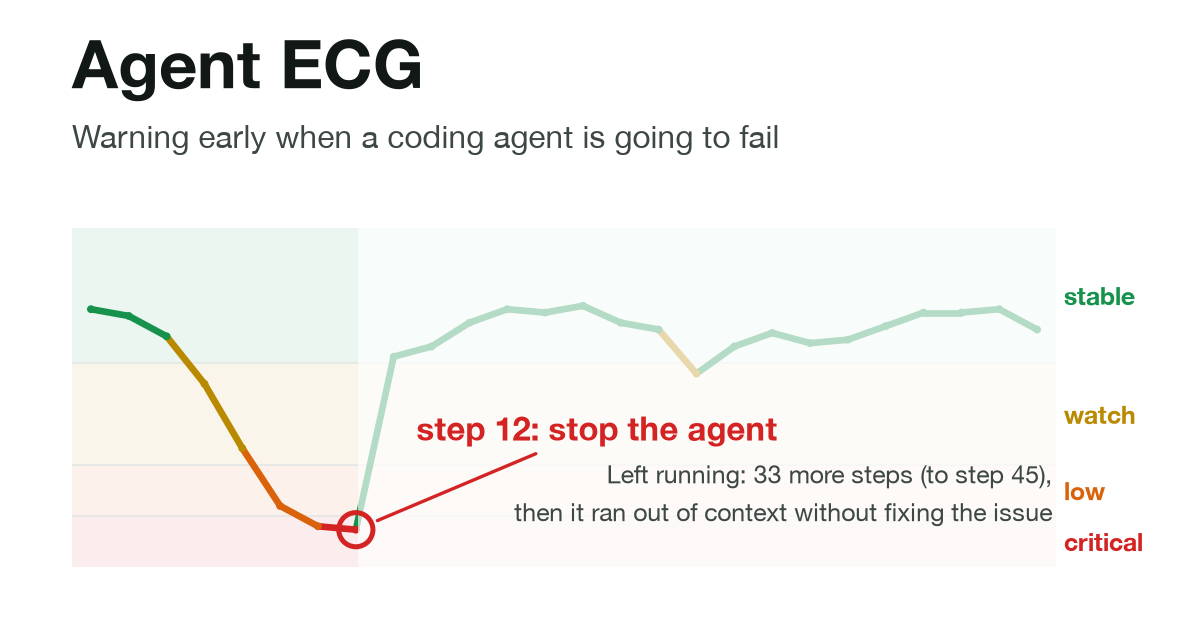
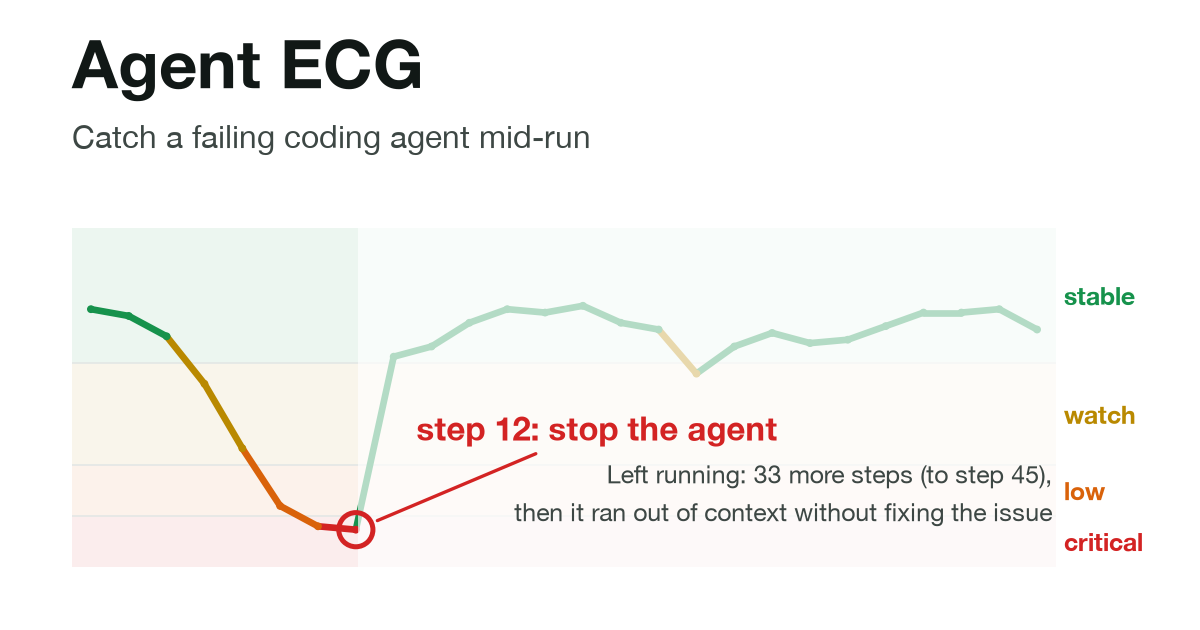
site: sharper headline claims, every one traced to results/
- Headline "Agent ECG: Catch a Failing Coding Agent Mid-Run" with a tagline; meta tags and the
  link-preview card to match.
- Abstract rewritten to sell: 83 % of runs fail, the monitor flags failing runs 3 steps sooner than
  a classical monitor and catches 66 it misses, level with the strongest baseline on two attempts at
  the same issue, plain-English status reports; the overall edge of that baseline (0.03 to 0.04
  AUROC) is still stated.
- Six one-fact cards; findings retitled ("Same issue, dead heat", "It calls it 3 steps sooner");
  limitations reframed as "What it can't do yet"; demo caption and README opening to match.

Changed region(s): [[0.0617, 0.181, 0.6475, 0.2413]]

diff --git a/site/index.html b/site/index.html
@@ -6,9 +6,9 @@
 <title>Agent ECG</title>
 <meta name="claude:viewport-fit-sides" content="cover">
 <link rel="icon" type="image/svg+xml" href="favicon.svg">
-<meta name="description" content="Reading a coding agent's run step by step to warn early when it is going to fail.">
-<meta property="og:title" content="Agent ECG: warning early when a coding agent is going to fail">
-<meta property="og:description" content="Reading a coding agent's run step by step to warn early when it is going to fail.">
+<meta name="description" content="A heart monitor for AI coding agents: it reads every step of a run and flags failing runs 3 steps before a classical monitor.">
+<meta property="og:title" content="Agent ECG: catch a failing coding agent mid-run">
+<meta property="og:description" content="A heart monitor for AI coding agents: it reads every step of a run and flags failing runs 3 steps before a classical monitor.">
 <meta property="og:type" content="website">
 <meta property="og:url" content="https://etiennerv.github.io/agent-ecg/">
 <meta property="og:image" content="https://etiennerv.github.io/agent-ecg/social_preview.png">
@@ -60,6 +60,7 @@ img, video { max-width: 100%; }
 .publication-authors { font-size: 1.25rem; font-weight: 500; margin: 0; }
 .author-block { white-space: nowrap; }
 .publication-venue { color: var(--muted); font-size: 1.05rem; margin: 0.3rem 0 0; }
+.publication-tagline { font-size: 1.3rem; line-height: 1.45; color: var(--fg2); max-width: 760px; margin: -0.3rem auto 1.5rem; text-wrap: balance; }
 .publication-links { display: flex; flex-wrap: wrap; justify-content: center; gap: 0.6rem; margin-top: 1.6rem; }
 .button { display: inline-flex; align-items: center; gap: 0.5rem; background: var(--button); color: var(--button-fg); text-decoration: none;
   font-weight: 600; font-size: 0.98rem; padding: 0.6rem 1.2rem; border-radius: 999px; transition: transform 0.15s, background 0.15s; }
@@ -176,7 +177,8 @@ pre.cmd { background: var(--code-bg); border: 1px solid var(--border); border-ra
   <!-- title block -->
   <section class="hero section centered">
     <div class="container">
-      <h1 class="publication-title">Agent <span class="beat">ECG</span>: Warning Early When a Coding Agent Is Going to Fail</h1>
+      <h1 class="publication-title">Agent <span class="beat">ECG</span>: Catch a Failing Coding Agent Mid-Run</h1>
+      <p class="publication-tagline">A heart monitor for AI coding agents. It reads every step of a run and raises the alarm while there is still time to pull the plug.</p>
       <p class="publication-authors"><span class="author-block">Barış Gürel,</span> <span class="author-block">Maximilian Lohscheller,</span> <span class="author-block">Ziyad Mellal,</span> <span class="author-block">Etienne Ritter Vidal</span></p>
       <p class="publication-venue">TimeNet Hackathon, Round 1 · 2026</p>
       <div class="publication-links">
@@ -200,7 +202,7 @@ pre.cmd { background: var(--code-bg); border: 1px solid var(--border); border-ra
   <section class="section">
     <div class="narrow">
       <h2 class="title centered">Abstract</h2>
-      <p class="abstract">Coding agents fail on most real GitHub issues, and the verdict usually comes only at the end of a run. We read an agent's run step by step, like an ECG reads a heartbeat, and ask after every step whether the run will resolve its issue. We contribute a TimeNet dataset of 235,978 checkpoints from 76,182 SWE-agent runs, where each checkpoint holds the first 5 to 30 steps of a run that is still going: 19 per-step series, the agent's thoughts and the issue text. We fine-tune three time-series language models (TSLMs), language models that read time series alongside text, built with OpenTSLM on Llama 3.2 1B. Each reads different inputs and is compared with a classical baseline that reads exactly the same inputs, on 7,640 runs from 143 repositories never seen in training. Replayed as a live monitor on 600 runs it had never seen, our full model raises the alarm earlier than a classical baseline (half of its catches by step 6, against step 9) and catches 66 failing runs that baseline misses. On two attempts at the same issue, it is level with the strongest classical baseline, which reads the same inputs and is slightly ahead over all runs (0.03 to 0.04 AUROC), mostly by spotting hard issues from their text. It also writes a plain-English status report at every step.</p>
+      <p class="abstract">83&nbsp;% of SWE-agent runs on real GitHub issues fail, and you only find out when the run is over. Agent ECG watches the run while it happens. We turned 76,182 runs into a new TimeNet dataset that records each run like a heartbeat: 235,978 checkpoints, 19 signals per step, the agent's own reasoning and the issue it was given. On top of it we fine-tuned a time-series language model (OpenTSLM on Llama 3.2 1B) that reads a run step by step and says whether it will make it. Everything is tested on 7,640 runs from 143 repositories it never saw. Replayed as a live monitor, it flags failing runs 3 steps sooner than a classical monitor (half of its catches by step 6, against step 9) and catches 66 failing runs that monitor lets through. On two attempts at the same issue it is level with the strongest classical baseline at every step; over all runs that baseline keeps a small edge (0.03 to 0.04 AUROC), mostly by spotting hard issues from their text. And at every step it writes a status report in plain English.</p>
     </div>
   </section>
 
@@ -265,7 +267,7 @@ pre.cmd { background: var(--code-bg); border: 1px solid var(--border); border-ra
       <figure class="demo">
         <video src="demo.mp4" poster="demo_poster.jpg" autoplay muted loop playsinline controls preload="metadata"
           aria-label="Terminal demo: the agent's steps on the left, the monitor's heartbeat and health on the right"></video>
-        <figcaption class="subtitle">A recorded test run, replayed step by step: the agent on the left, the monitor on the right.</figcaption>
+        <figcaption class="subtitle">Watch it catch one. An unseen test run, replayed step by step: the agent works on the left, the monitor's health crashes on the right, and it calls the stop at step 12. Left alone, the run failed.</figcaption>
       </figure>
     </div>
   </section>
@@ -275,16 +277,18 @@ pre.cmd { background: var(--code-bg); border: 1px solid var(--border); border-ra
     <div class="container">
       <h2 class="title">Results</h2>
       <div class="keys">
-        <div class="key tslm"><b>step 6</b><h3>Raises the alarm early</h3><p>Replayed on 600 runs it had never seen, our monitor flagged half of the failing runs it caught by step 6, 3 steps before the simple model (step 9), and caught 66 failing runs the simple model missed.</p></div>
-        <div class="key tslm"><b>66&nbsp;% vs 61&nbsp;%</b><h3>A head start from step 5</h3><p>Take two runs, one that will succeed and one that will fail. After 5 steps our model picks the failing one 66&nbsp;% of the time, where a simple model reading only the agent's actions gets 61&nbsp;%. A coin flip gets 50&nbsp;%.</p></div>
-        <div class="key tslm"><b>&asymp;&nbsp;0</b><h3>Level with the best simple model</h3><p>On two attempts at the same issue, there is no clear winner between our model and the strongest simple model at any step, and at step 20 ours is slightly ahead.</p></div>
-        <div class="key tslm"><b>99.7&nbsp;%</b><h3>Explains itself in plain English</h3><p>At every step our model also writes a short status report: what the agent has done so far and how the run is likely to end. 99.7&nbsp;% of them come out in the right format. The simple models only give a number.</p></div>
+        <div class="key tslm"><b>step 6</b><h3>3 steps ahead</h3><p>Half of its catches come by step 6. The classical monitor needs until step 9.</p></div>
+        <div class="key tslm"><b>66</b><h3>Failures the other monitor missed</h3><p>Replayed on 600 runs it had never seen, it caught 66 failing runs that the classical monitor let through.</p></div>
+        <div class="key tslm"><b>66&nbsp;%</b><h3>Nearly 2 in 3 after 5 steps</h3><p>Show it a run that will succeed and one that will fail. After only 5 steps it picks the failing one 66&nbsp;% of the time. Reading the issue alone gets 61&nbsp;%; a coin flip gets 50&nbsp;%.</p></div>
+        <div class="key tslm"><b>&asymp;&nbsp;0</b><h3>Dead heat on the same issue</h3><p>Two attempts at the same issue: no clear winner between our model and the strongest classical baseline, at any step.</p></div>
+        <div class="key tslm"><b>99.7&nbsp;%</b><h3>It reports in plain English</h3><p>Every step comes with a written status report: what the agent has done and where the run is heading. The classical models give you a number.</p></div>
+        <div class="key"><b>143</b><h3>Repositories it never saw</h3><p>Every result on this page comes from 7,640 runs on 143 repositories kept out of training.</p></div>
       </div>
-      <h3 class="finding-title" style="margin-top:2.6rem">On two attempts at the same issue, no clear winner</h3>
-      <p class="lead">Some issues are easy to spot as hard from their text alone, and over all runs that gives a simple model reading the same inputs a small lead (3 to 4 points). Compare two attempts at the same issue, where that shortcut does not help, and neither model is clearly ahead at any step.</p>
+      <h3 class="finding-title" style="margin-top:2.6rem">Same issue, dead heat</h3>
+      <p class="lead">Over all runs, the strongest classical baseline keeps a small edge of 3 to 4 points, mostly by spotting hard issues from their text before the agent even starts. Put two attempts at the same issue side by side, where that shortcut is useless, and the edge is gone: no clear winner at any step.</p>
       <figure class="chart"><img src="figures/same_issue.svg" alt="Our model's score minus the best simple model's on two attempts at the same issue, at 5 to 30 steps, with confidence intervals" loading="lazy"><figcaption>Our model's score minus that of the best simple model, which reads the same inputs, on pairs of a failing and a succeeding attempt at the same issue. Each bar is a 95&nbsp;% confidence interval; every one crosses zero, so neither model is clearly ahead. Data: <code>results/same_issue/</code>.</figcaption></figure>
-      <h3 class="finding-title" style="margin-top:2.6rem">As a live monitor, ours raises the alarm 3 steps earlier</h3>
-      <p class="lead">We replayed 600 test runs step by step, as if each monitor were watching them live.</p>
+      <h3 class="finding-title" style="margin-top:2.6rem">It calls it 3 steps sooner</h3>
+      <p class="lead">We replayed 600 unseen runs step by step, as if both monitors were watching them live.</p>
       <figure class="chart"><img src="figures/monitor_paper.svg" alt="Bars comparing how early each monitor flags failing runs, and a Venn diagram of the failing runs each one caught" loading="lazy"><figcaption>We replayed all 239 test runs that succeeded and lasted at least 20 steps, plus 361 failing runs picked at random; the simple model reads only the agent's actions. Our model flagged 32&nbsp;% of the failing runs (simple model: 34&nbsp;%) and raised false alarms on 18&nbsp;% of the runs that succeeded (simple model: 15&nbsp;%). The circles are not to scale.</figcaption></figure>
     </div>
   </section>
@@ -292,10 +296,10 @@ pre.cmd { background: var(--code-bg); border: 1px solid var(--border); border-ra
   <!-- limitations -->
   <section class="section">
     <div class="narrow content">
-      <h2 class="title">Limitations</h2>
+      <h2 class="title">What it can't do yet</h2>
       <ul class="findings">
-        <li><strong>Simple models are hard to beat here.</strong> Over all runs, a classical model given the same inputs scores a little above each of our TSLMs: 3 to 4 points for ecg-full from 5 to 20 steps, too small a gap to be sure of. On two attempts at the same issue there is no clear winner.</li>
-        <li><strong>We have not tested how much ecg-full relies on the ECG.</strong> That would mean shuffling the ECGs between runs and checking whether its score drops, which we did not do. Our ECG-only model, ecg, does score above chance.</li>
+        <li><strong>Beat the strongest baseline over all runs.</strong> Given the same inputs, a classical model stays 3 to 4 points ahead of ecg-full from 5 to 20 steps, a gap too small to be sure of.</li>
+        <li><strong>Prove it reads the ECG.</strong> We have not shuffled the ECGs between runs to check how much ecg-full relies on them. Our ECG-only model, ecg, does score above chance.</li>
       </ul>
     </div>
   </section>

diff --git a/scripts/site_template.html b/scripts/site_template.html
@@ -1,9 +1,9 @@
 <title>Agent ECG</title>
 <meta name="claude:viewport-fit-sides" content="cover">
 <link rel="icon" type="image/svg+xml" href="favicon.svg">
-<meta name="description" content="Reading a coding agent's run step by step to warn early when it is going to fail.">
-<meta property="og:title" content="Agent ECG: warning early when a coding agent is going to fail">
-<meta property="og:description" content="Reading a coding agent's run step by step to warn early when it is going to fail.">
+<meta name="description" content="A heart monitor for AI coding agents: it reads every step of a run and flags failing runs $alarm_lead steps before a classical monitor.">
+<meta property="og:title" content="Agent ECG: catch a failing coding agent mid-run">
+<meta property="og:description" content="A heart monitor for AI coding agents: it reads every step of a run and flags failing runs $alarm_lead steps before a classical monitor.">
 <meta property="og:type" content="website">
 <meta property="og:url" content="$site_url">
 <meta property="og:image" content="${site_url}social_preview.png">
@@ -55,6 +55,7 @@ img, video { max-width: 100%; }
 .publication-authors { font-size: 1.25rem; font-weight: 500; margin: 0; }
 .author-block { white-space: nowrap; }
 .publication-venue { color: var(--muted); font-size: 1.05rem; margin: 0.3rem 0 0; }
+.publication-tagline { font-size: 1.3rem; line-height: 1.45; color: var(--fg2); max-width: 760px; margin: -0.3rem auto 1.5rem; text-wrap: balance; }
 .publication-links { display: flex; flex-wrap: wrap; justify-content: center; gap: 0.6rem; margin-top: 1.6rem; }
 .button { display: inline-flex; align-items: center; gap: 0.5rem; background: var(--button); color: var(--button-fg); text-decoration: none;
   font-weight: 600; font-size: 0.98rem; padding: 0.6rem 1.2rem; border-radius: 999px; transition: transform 0.15s, background 0.15s; }
@@ -169,7 +170,8 @@ pre.cmd { background: var(--code-bg); border: 1px solid var(--border); border-ra
   <!-- title block -->
   <section class="hero section centered">
     <div class="container">
-      <h1 class="publication-title">Agent <span class="beat">ECG</span>: Warning Early When a Coding Agent Is Going to Fail</h1>
+      <h1 class="publication-title">Agent <span class="beat">ECG</span>: Catch a Failing Coding Agent Mid-Run</h1>
+      <p class="publication-tagline">A heart monitor for AI coding agents. It reads every step of a run and raises the alarm while there is still time to pull the plug.</p>
       <p class="publication-authors"><span class="author-block">Barış Gürel,</span> <span class="author-block">Maximilian Lohscheller,</span> <span class="author-block">Ziyad Mellal,</span> <span class="author-block">Etienne Ritter Vidal</span></p>
       <p class="publication-venue">TimeNet Hackathon, Round 1 · 2026</p>
       <div class="publication-links">
@@ -193,7 +195,7 @@ pre.cmd { background: var(--code-bg); border: 1px solid var(--border); border-ra
   <section class="section">
     <div class="narrow">
       <h2 class="title centered">Abstract</h2>
-      <p class="abstract">Coding agents fail on most real GitHub issues, and the verdict usually comes only at the end of a run. We read an agent's run step by step, like an ECG reads a heartbeat, and ask after every step whether the run will resolve its issue. We contribute a TimeNet dataset of $n_ckpt checkpoints from $n_runs SWE-agent runs, where each checkpoint holds the first $k_first to $k_last steps of a run that is still going: 19 per-step series, the agent's thoughts and the issue text. We fine-tune three time-series language models (TSLMs), language models that read time series alongside text, built with OpenTSLM on Llama 3.2 1B. Each reads different inputs and is compared with a classical baseline that reads exactly the same inputs, on $test_runs runs from $test_repos repositories never seen in training. Replayed as a live monitor on $mon_total runs it had never seen, our full model raises the alarm earlier than a classical baseline (half of its catches by step $a_median, against step $s_median) and catches $a_only failing runs that baseline misses. On two attempts at the same issue, it is level with the strongest classical baseline, which reads the same inputs and is slightly ahead over all runs ($gap_lo to $gap_hi AUROC), mostly by spotting hard issues from their text. It also writes a plain-English status report at every step.</p>
+      <p class="abstract">$fail_first of SWE-agent runs on real GitHub issues fail, and you only find out when the run is over. Agent ECG watches the run while it happens. We turned $n_runs runs into a new TimeNet dataset that records each run like a heartbeat: $n_ckpt checkpoints, 19 signals per step, the agent's own reasoning and the issue it was given. On top of it we fine-tuned a time-series language model (OpenTSLM on Llama 3.2 1B) that reads a run step by step and says whether it will make it. Everything is tested on $test_runs runs from $test_repos repositories it never saw. Replayed as a live monitor, it flags failing runs $alarm_lead steps sooner than a classical monitor (half of its catches by step $a_median, against step $s_median) and catches $a_only failing runs that monitor lets through. On two attempts at the same issue it is level with the strongest classical baseline at every step; over all runs that baseline keeps a small edge ($gap_lo to $gap_hi AUROC), mostly by spotting hard issues from their text. And at every step it writes a status report in plain English.</p>
     </div>
   </section>
 
@@ -258,7 +260,7 @@ pre.cmd { background: var(--code-bg); border: 1px solid var(--border); border-ra
       <figure class="demo">
         <video src="demo.mp4" poster="demo_poster.jpg" autoplay muted loop playsinline controls preload="metadata"
           aria-label="Terminal demo: the agent's steps on the left, the monitor's heartbeat and health on the right"></video>
-        <figcaption class="subtitle">A recorded test run, replayed step by step: the agent on the left, the monitor on the right.</figcaption>
+        <figcaption class="subtitle">Watch it catch one. An unseen test run, replayed step by step: the agent works on the left, the monitor's health crashes on the right, and it calls the stop at step $show_alarm. Left alone, the run failed.</figcaption>
       </figure>
     </div>
   </section>
@@ -268,16 +270,18 @@ pre.cmd { background: var(--code-bg); border: 1px solid var(--border); border-ra
     <div class="container">
       <h2 class="title">Results</h2>
       <div class="keys">
-        <div class="key tslm"><b>step $a_median</b><h3>Raises the alarm early</h3><p>Replayed on $mon_total runs it had never seen, our monitor flagged half of the failing runs it caught by step $a_median, $alarm_lead steps before the simple model (step $s_median), and caught $a_only failing runs the simple model missed.</p></div>
-        <div class="key tslm"><b>$a_first_pct vs $sig_first_pct</b><h3>A head start from step $k_first</h3><p>Take two runs, one that will succeed and one that will fail. After $k_first steps our model picks the failing one $a_first_pct of the time, where a simple model reading only the agent's actions gets $sig_first_pct. A coin flip gets 50&nbsp;%.</p></div>
-        <div class="key tslm"><b>&asymp;&nbsp;0</b><h3>Level with the best simple model</h3><p>On two attempts at the same issue, there is no clear winner between our model and the strongest simple model at any step, and at step $si_best_step ours is slightly ahead.</p></div>
-        <div class="key tslm"><b>$status_format</b><h3>Explains itself in plain English</h3><p>At every step our model also writes a short status report: what the agent has done so far and how the run is likely to end. $status_format of them come out in the right format. The simple models only give a number.</p></div>
+        <div class="key tslm"><b>step $a_median</b><h3>$alarm_lead steps ahead</h3><p>Half of its catches come by step $a_median. The classical monitor needs until step $s_median.</p></div>
+        <div class="key tslm"><b>$a_only</b><h3>Failures the other monitor missed</h3><p>Replayed on $mon_total runs it had never seen, it caught $a_only failing runs that the classical monitor let through.</p></div>
+        <div class="key tslm"><b>$a_first_pct</b><h3>Nearly 2 in 3 after $k_first steps</h3><p>Show it a run that will succeed and one that will fail. After only $k_first steps it picks the failing one $a_first_pct of the time. Reading the issue alone gets $iss_first_pct; a coin flip gets 50&nbsp;%.</p></div>
+        <div class="key tslm"><b>&asymp;&nbsp;0</b><h3>Dead heat on the same issue</h3><p>Two attempts at the same issue: no clear winner between our model and the strongest classical baseline, at any step.</p></div>
+        <div class="key tslm"><b>$status_format</b><h3>It reports in plain English</h3><p>Every step comes with a written status report: what the agent has done and where the run is heading. The classical models give you a number.</p></div>
+        <div class="key"><b>$test_repos</b><h3>Repositories it never saw</h3><p>Every result on this page comes from $test_runs runs on $test_repos repositories kept out of training.</p></div>
       </div>
-      <h3 class="finding-title" style="margin-top:2.6rem">On two attempts at the same issue, no clear winner</h3>
-      <p class="lead">Some issues are easy to spot as hard from their text alone, and over all runs that gives a simple model reading the same inputs a small lead ($gap_lo_pts to $gap_hi_pts points). Compare two attempts at the same issue, where that shortcut does not help, and neither model is clearly ahead at any step.</p>
+      <h3 class="finding-title" style="margin-top:2.6rem">Same issue, dead heat</h3>
+      <p class="lead">Over all runs, the strongest classical baseline keeps a small edge of $gap_lo_pts to $gap_hi_pts points, mostly by spotting hard issues from their text before the agent even starts. Put two attempts at the same issue side by side, where that shortcut is useless, and the edge is gone: no clear winner at any step.</p>
       $fig_same_issue
-      <h3 class="finding-title" style="margin-top:2.6rem">As a live monitor, ours raises the alarm $alarm_lead steps earlier</h3>
-      <p class="lead">We replayed $mon_total test runs step by step, as if each monitor were watching them live.</p>
+      <h3 class="finding-title" style="margin-top:2.6rem">It calls it $alarm_lead steps sooner</h3>
+      <p class="lead">We replayed $mon_total unseen runs step by step, as if both monitors were watching them live.</p>
       $fig_monitor
     </div>
   </section>
@@ -285,10 +289,10 @@ pre.cmd { background: var(--code-bg); border: 1px solid var(--border); border-ra
   <!-- limitations -->
   <section class="section">
     <div class="narrow content">
-      <h2 class="title">Limitations</h2>
+      <h2 class="title">What it can't do yet</h2>
       <ul class="findings">
-        <li><strong>Simple models are hard to beat here.</strong> Over all runs, a classical model given the same inputs scores a little above each of our TSLMs: $gap_lo_pts to $gap_hi_pts points for $label_a from $k_first to 20 steps, too small a gap to be sure of. On two attempts at the same issue there is no clear winner.</li>
-        <li><strong>We have not tested how much $label_a relies on the ECG.</strong> That would mean shuffling the ECGs between runs and checking whether its score drops, which we did not do. Our ECG-only model, $label_c, does score above chance.</li>
+        <li><strong>Beat the strongest baseline over all runs.</strong> Given the same inputs, a classical model stays $gap_lo_pts to $gap_hi_pts points ahead of $label_a from $k_first to 20 steps, a gap too small to be sure of.</li>
+        <li><strong>Prove it reads the ECG.</strong> We have not shuffled the ECGs between runs to check how much $label_a relies on them. Our ECG-only model, $label_c, does score above chance.</li>
       </ul>
     </div>
   </section>

diff --git a/scripts/charts.py b/scripts/charts.py
@@ -896,9 +896,7 @@ def social_preview(t: Theme) -> None:
     a = replay(SCAN / "replay.showcase.A.jsonl", SHOWCASE)
     fig = plt.figure(figsize=(10, 5.25), dpi=DPI)
     fig.text(0.06, 0.86, "Agent ECG", fontsize=40, fontweight="bold", color=t.ink, va="baseline")
-    fig.text(
-        0.06, 0.765, "Warning early when a coding agent is going to fail", fontsize=19, color=t.ink2, va="baseline"
-    )
+    fig.text(0.06, 0.765, "Catch a failing coding agent mid-run", fontsize=19, color=t.ink2, va="baseline")
     ax = fig.add_axes([0.06, 0.1, 0.82, 0.56])
     bands(ax, t)
     health_line(ax, t, a, lw=4)

diff --git a/scripts/site.py b/scripts/site.py
@@ -88,6 +88,7 @@ def auroc_table() -> dict:
     return {
         "sig_first_pct": f"{100 * sig[charts.STEPS[0]][0]:.0f}&nbsp;%",
         "a_first_pct": f"{100 * tslm['A'][charts.STEPS[0]][0]:.0f}&nbsp;%",
+        "iss_first_pct": f"{100 * cpu['issue'][charts.STEPS[0]][0]:.0f}&nbsp;%",
         "sig_last_pct": f"{100 * sig[charts.STEPS[-1]][0]:.0f}&nbsp;%",
         "gap_lo_pts": f"{100 * min(gaps):.0f}",
         "gap_hi_pts": f"{100 * max(gaps):.0f}",

diff --git a/README.md b/README.md
@@ -1,7 +1,7 @@
 # agent-ecg
 
-An "ECG" for coding agents: read the first steps of a SWE-agent run and warn early whether it will
-resolve its GitHub issue. Built on the TimeNet dataset `nebius/swe_agent_trajectories`
+A heart monitor for AI coding agents: it reads a SWE-agent run step by step and flags runs that are
+going to fail, three steps before a classical monitor. Built on the TimeNet dataset `nebius/swe_agent_trajectories`
 ([OpenTSLM/TimeNet#832](https://github.com/OpenTSLM/TimeNet/pull/832)).
 
 https://github.com/user-attachments/assets/2428ea1f-d6d5-4f16-8782-0e795f7c1f60
